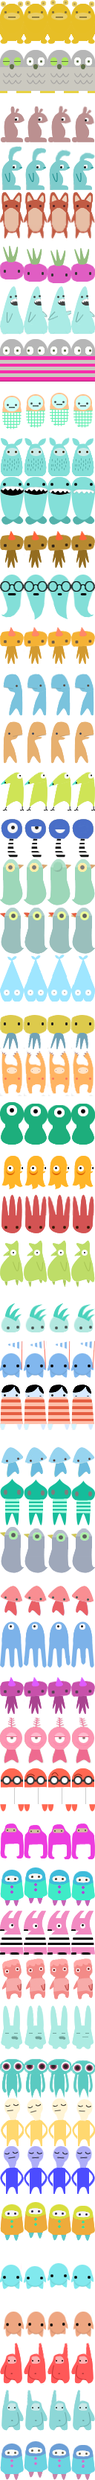
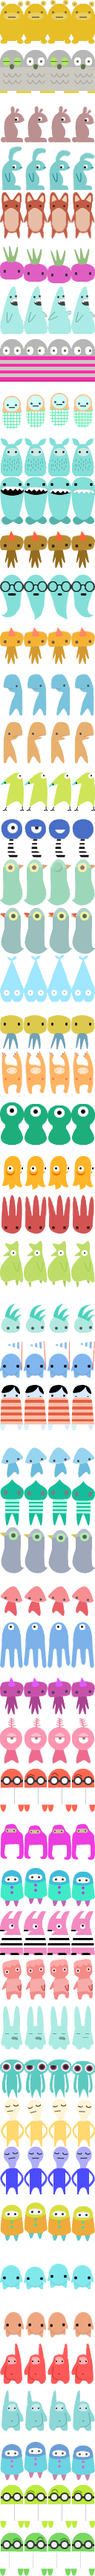
new npcs, fixed chat to log

diff --git a/client/code/admin/npcs.js b/client/code/admin/npcs.js
@@ -53,7 +53,7 @@ var self = module.exports = {
 				npc = $(parents[parents.length-1]),
 				sprite = npc.attr('data-sprite'),
 				bg = $(parents[1]);
-			if(sprite < 51) {
+			if(sprite < 53) {
 				sprite++;
 				var locY = sprite * -64,
 					pos = '0 ' + locY + 'px';

diff --git a/client/code/game/others.js b/client/code/game/others.js
@@ -367,6 +367,8 @@ $game.$others = {
 					otherPlayer.isChatting = true;
 					var fadeTime = $game.$chat.message(data);
 					otherPlayer.hideTimer = setTimeout(otherPlayer.hideChat, fadeTime);
+				} else {
+					$game.$log.addMessage(data);
 				}
 			},
 
